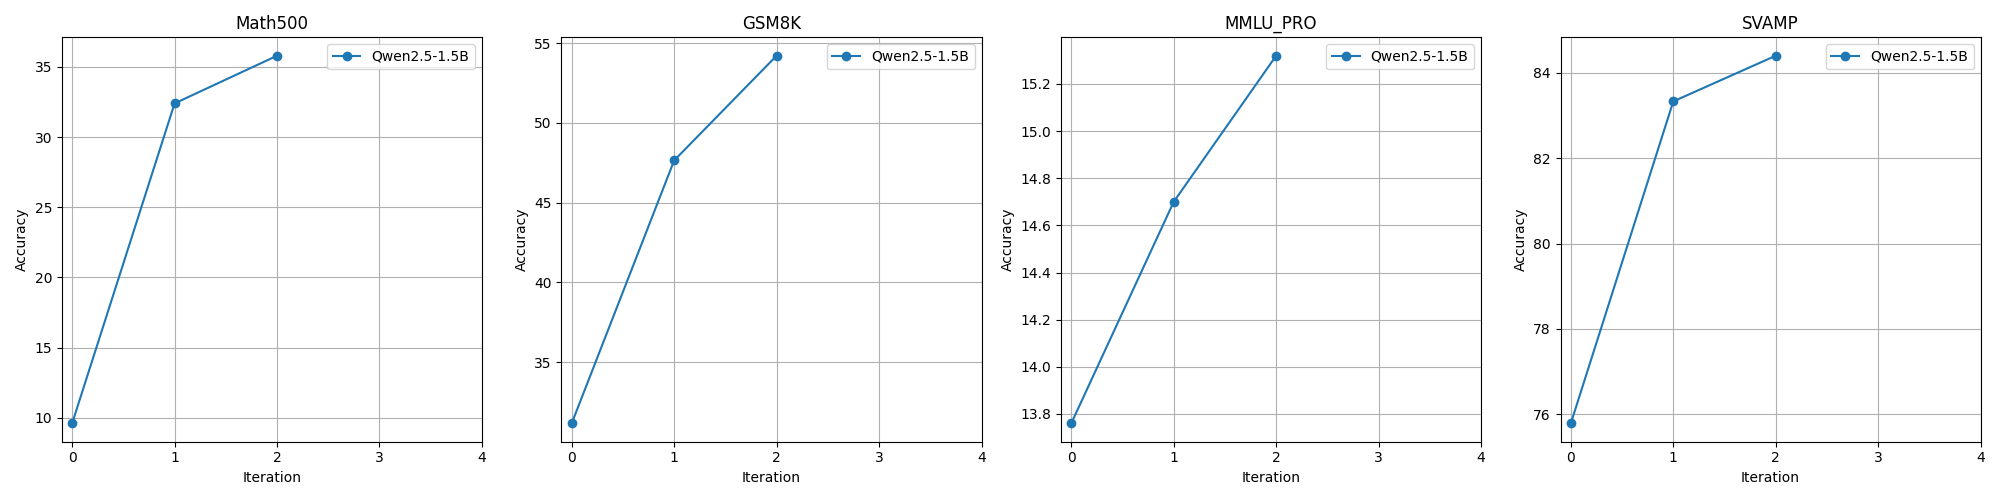
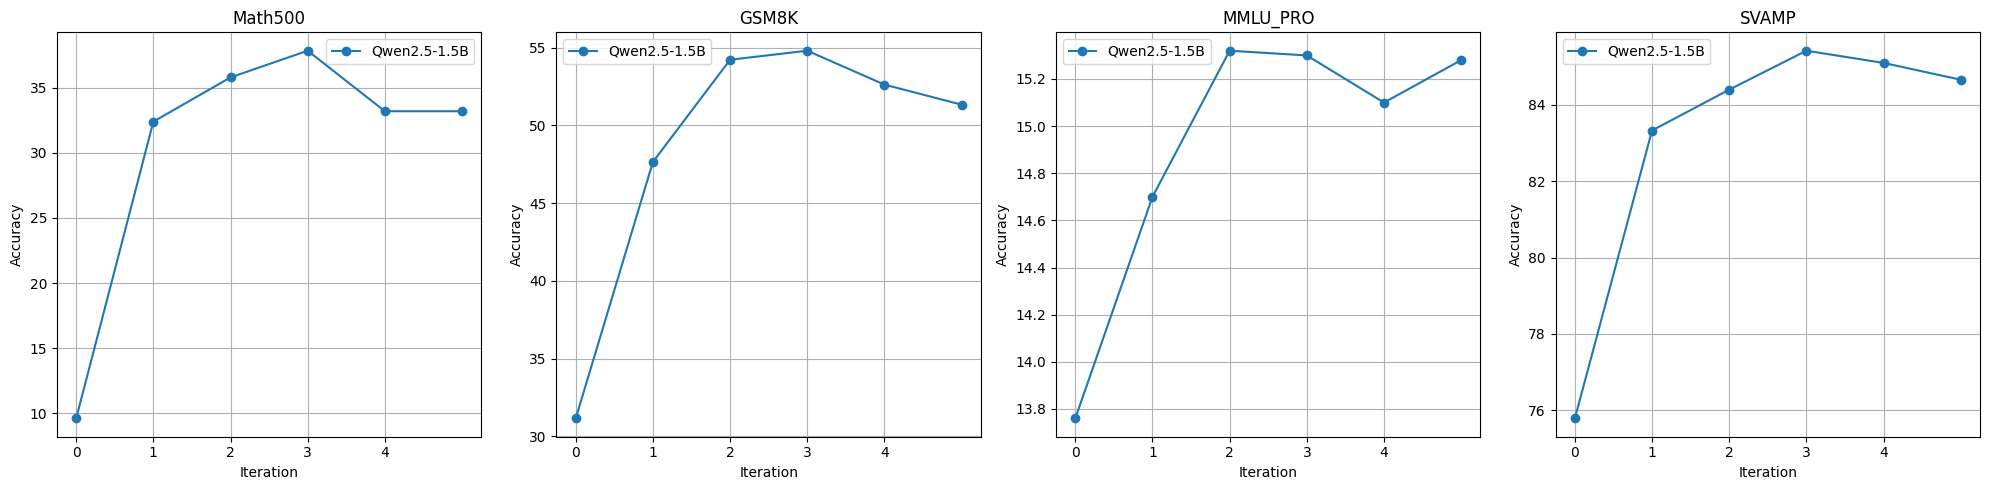
update

diff --git a/utilities/vis.py b/utilities/vis.py
@@ -5,11 +5,11 @@ import subprocess
 # Data: accuracy per iteration for Qwen2.5 1.5B
 data = {
     "Qwen2.5-1.5B": {
-        "Iteration": [0, 1, 2, 3],
-        "Math500": [9.6, 32.4, 35.80, None],
-        "GSM8K": [31.16, 47.65, 54.22, None],
-        "MMLU_PRO": [13.76, 14.7, 15.32, None],
-        "SVAMP": [75.79, 83.33, 84.40, None],
+        "Iteration": [0, 1, 2, 3, 4, 5],
+        "Math500": [9.6, 32.4, 35.80, 37.85, 33.20, 33.20],
+        "GSM8K": [31.16, 47.65, 54.22, 54.80, 52.62, 51.33],
+        "MMLU_PRO": [13.76, 14.7, 15.32, 15.30, 15.10, 15.28],
+        "SVAMP": [75.79, 83.33, 84.40, 885.42, 85.10, 84.66],
     }
 }
 

diff --git a/src/prompt/teacher_prompt.py b/src/prompt/teacher_prompt.py
@@ -80,3 +80,4 @@ Final Answer: $\\boxed{{...}}$"""
 # -------------------------
 # Teacher Prompt: Iteration 1+ (subsequent rounds, with history)
 # -------------------------
+#NOTE: Need Updated

diff --git a/src/teacher.py b/src/teacher.py
@@ -57,6 +57,8 @@ def main():
 
     args = parser.parse_args()
 
+
+# NOTE: Adjusted for I1-2-3
     # Load dataset
     if args.dataset == "10k":
         print("Loading 10k dataset")

diff --git a/README.md b/README.md
@@ -24,6 +24,8 @@ Our implementation follows two goals:
 ---
 
 ##  Updates
+* **2025/10/16** – We use **easydistill** for Standard Knowledge Distillation for comparing with UNDO method.
+* **2025/10/16** – Distillation by UNDO method have finished, result showed below.
 * **2025/09/25** – Student evaluation results for Iteration 2 are in! See **Student Evaluation Results** section.
 * **2025/09/17** – Student finetuning code is working, student now being finetuned
 * **2025/09/11** – Released initial [student test code](src/student.py); see **Running** for usage. Student finetuning code is in progress.
@@ -38,28 +40,29 @@ Our implementation follows two goals:
 | Status | Task                                    |
 | ------ | --------------------------------------- |
 | ✔     | Prepare training dataset                |
-| ✔     | Implement teacher model (1st iteration) |
+| ✔     | Implement teacher model |
 | ✔     | Evaluation method for teacher responses |
-| ✔     | Prompt teacher model for good answers   |
-| ✔       | Generate 1st teacher-distilled dataset  |
 | ✔      | Implement student model                 |
 | ✔     | Prepare test datasets                |
-| ✔      | Test student on Test datasets  #0         |
-| ✔      | Train student on distilled dataset      |
-| ✔      | Test student on Test datasets  #1        |
-| ✔      | Continues 2nd iteration          |
+| ✔      | UNDO iteration 1 updated!        |
+| ✔      | UNDO iteration 2 updated!      |
+| ✔      | UNDO iteration 3 updated!         |
+| ✔      | UNDO iteration 4 updated!          |
+| ✔      | Standard Knowledge Distillation DONE!   |
 | ⬜      | ...         |
 
 
 ---
-## Student Evaluation Results
+## Student Evaluation Results by UNDO Method
 
 | Model: QWEN2.5 1.5B | Iteration | Math500 | GSM8K* | MMLU_PRO** | SVAMP* |
 | ------------------- | --------- | ------- | ------ | -------- | ------ |
 |                     | 0         | 9.6     | 31.16  | 13.76    | 75.79  |
 |                     | 1         | 32.4    | 47.65  | 14.53    | 83.33  |
 |                     | 2         | 35.80   | 54.22  | 15.32    | 84.40  |
-|                     | 3         | -       | -      | -        | -      |
+|                     | 3         | 37.85       | 54.80      | 15.32        | 85.42      |
+|                     | 4         | 33.20       | 46.62      | 15.10        | 85.10      |
+|                     | 5         | 33.20       | 45.33      | 15.28        | 84.66      |
 
 ---
 ![vis](vis/student_vis.png)
@@ -99,7 +102,7 @@ See [doc/installation.md](doc/installation.md) for detailed setup instructions.
 
 ---
 
-## 🚀 Running
+## 🚀 Running UNDO method
 **NOTE**: This currently messy because now build and test code phase, later will use .sh files to run the experiments.
 
 ### Teacher Inference
@@ -195,4 +198,6 @@ This will:
 
   * The teacher outputs long strings instead of numbers,
   * Multiple answers are given instead of one boxed result.
+
+
 
